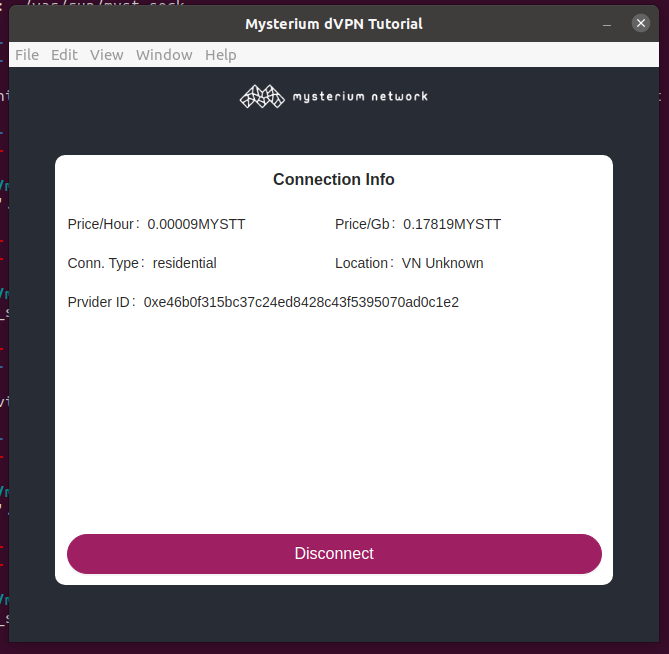
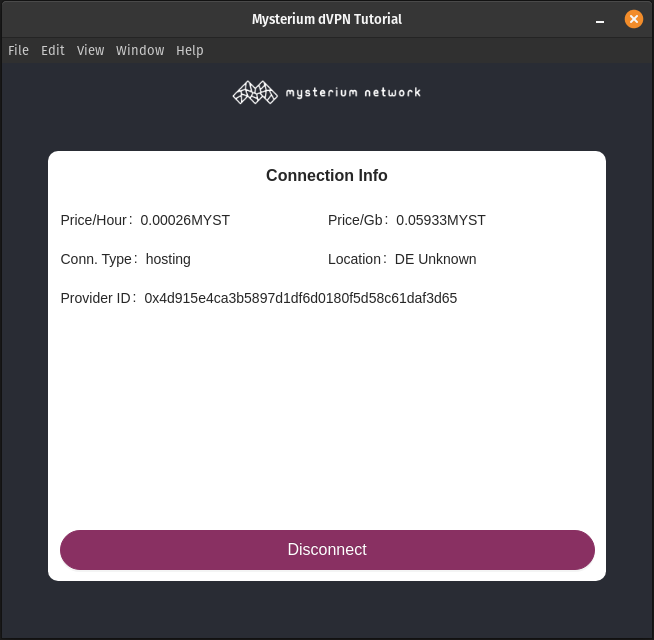
fix docs, code typo and update deps

diff --git a/src/renderer/components/Connection/index.tsx b/src/renderer/components/Connection/index.tsx
@@ -34,7 +34,7 @@ function Connection(params: Params) {
           {connection?.proposal?.location.country}{" "}
           {connection?.proposal?.location.city}
         </Descriptions.Item>
-        <Descriptions.Item label="Prvider ID">
+        <Descriptions.Item label="Provider ID">
           {connection?.proposal?.providerId}
         </Descriptions.Item>
       </Descriptions>

diff --git a/src/renderer/components/Identity/index.tsx b/src/renderer/components/Identity/index.tsx
@@ -45,7 +45,7 @@ function Identity(params: Params) {
             onChange={(e) => setPassword(e.target.value)}
           />
           <Button type="primary" shape="round" size="large" onClick={submit}>
-            Unclock
+            Unlock
           </Button>
     </div>
   );

diff --git a/src/renderer/api/index.ts b/src/renderer/api/index.ts
@@ -51,7 +51,7 @@ export async function getIdentity(
     await tequilapi.identityUnlock(consumerId, password);
   }
 
-  log.info("Got unclocked consumer identity");
+  log.info("Got unlocked consumer identity");
   State.currentIdentity = consumerId;
 }
 

diff --git a/README.md b/README.md
@@ -1,15 +1,11 @@
 ![Mysterium Network dVPN tutorial application](docs/demo.png)
 
-# To run
-1. `git clode https://...`
-2. `yarn install`
-3. `yarn dev` - to see how it looks like 
+# Making client application.
 
-# Mysterium Network dVPN tutorial. Making desktop client application.
+In this tutorial we will show how to build the simplest desktop dVPN application based on the Electron framework and will cover the main parts of the dVPN client, to give you an understanding of how they interact.
 
-Hello friends, in this tutorial we will show how to build a simplest desktop dVPN application based on Electron framework, and will cover main parts of dVPN client, to give you understanding how they interract.
 
-**What we will use:**
+**Dependencies:**
 
 - NodeJs: >=v16.9.1
 - npm: >=7.21.1
@@ -19,43 +15,42 @@ Hello friends, in this tutorial we will show how to build a simplest desktop dVP
 - webpack: == 4.46.0 _// we can't use Webpack 5, because of limitation in electron-webpack_
 - electron-webpack: >= 2.8.2
 - React: >= 17.0.2
-- @mysteriumnetwork/node: > 0.64.0 _// Client Mysterium Node_
+- @mysteriumnetwork/node: >= 1.4.7 _// Client Mysterium Node_
 - mysterium-vpn-js: > 15.1.0 _// Tequila API client_
 - electron-builder: > 22.11.7
 
-## How do client application work
+## Client application workflow
 
-![Client-Spuervisor-Node-WireGuard](docs/scheme.png)
+![Client-Supervisor-Node-WireGuard](docs/scheme.png)
 
-**Every client application consist of these four parts:**
+**Every client application consists of these four parts:**
 
 - **Application** - your client application
 - **Mysterium Node** - client node to interact with Mysterium Network
-- **Supervisor** - service used to move out from Node any services that need escalation of privileges, and also used to controll them. Supervisor used only for client applications.
+- **Supervisor** - a service which allows our application to interact with `node` without the need for privilege escalation. Supervisor used only for client applications.
 - **Wireguard** - VPN tunnel
 
 **Typical application startup:**
 
 1. Start the Node.
-2. Install & Start Supervisor service(if it not installed yet).
+2. Install & Start Supervisor service(if it has not been installed yet).
 3. Setup connection to the Node Tequila API through the localhost.
 4. Setup connection to the Supervisor through the socket.
 5. Do some application logic...
 
-Each Mysterium client Node is running Tequila API on `localhost:44050` which used for communication and controll. To interact  with this API we will use package `mysterium-vpn-js`. You can see docs for API by opening [localhost:44050/docs](http://localhost:44050/docs) in your browser(when Node working) and by visiting [mysterium-vpn-js client](https://github.com/mysteriumnetwork/mysterium-vpn-js/blob/master/src/tequilapi-client.ts)
-
+Each Mysterium client Node is running Tequila API on `localhost:44050` (default is 4050) which is used for communication and control. To interact with this API we will use the package `mysterium-vpn-js`. You can see docs for API by opening [localhost:44050/docs](http://localhost:44050/docs) in your browser(when Node working) and by visiting [mysterium-vpn-js client](https://github.com/mysteriumnetwork/mysterium-vpn-js/blob/master/src/tequilapi-client.ts)
 ## Let's build some simple Electron App
 
 Clone our demo repository to your local machine
 
-1. `git clode https://...`
+1. `git clone git@github.com:mysteriumnetwork/tequilapi-webapp-tutorial.git`
 2. `yarn install`
 3. `yarn dev` - to see how it looks like
 
 ### Structure & main modules
 
-Usually people are building react app with use of `create-react-app` tool which separate Source code from Electron.
-But this aproach has some negative consequences if we want that all our code be written on TypeScript.
+Usually, people build react apps using the `create-react-app` tool which separates Source code from Electron.
+But this approach has some negative consequences if we want that all our code to be written on TypeScript.
 That's why we will be using `webkit` & `electron-webkit` wrapper.
 
 From this point our project structure will look like this:
@@ -99,8 +94,8 @@ We use `postinstall` directive to copy Node binaries to our static folder so we 
 
 ### Setting up Electron
 
-First entry point of our application is `src/electron/main.ts` which will run our Electron.
-To create Electron window we use:
+The first entry point of our application is `src/electron/main.ts` which will run our Electron.
+To create an Electron window we use:
 
 ```js
 const win = new BrowserWindow({
@@ -112,11 +107,11 @@ const win = new BrowserWindow({
   frame: true,
   backgroundColor: "#282c34",
   webPreferences: {
-    webSecurity:false,                 // We need to disable CORS check to be able to connect to Tequila API
-    nodeIntegration: true,             // We can use Node.js in renderer process
+    webSecurity:false,            // We need to disable CORS check to be able to connect to Tequila API
+    nodeIntegration: true,        // We can use Node.js in renderer process
     experimentalFeatures: true,
     nativeWindowOpen: true,
-    contextIsolation: false,           // We can use Electron context in renderer process, so no need for contextBridge
+    contextIsolation: false,      // We can use Electron context in renderer process, so no need for contextBridge
   },
 });
 
@@ -133,7 +128,7 @@ if (isDev) {
 }
 ```
 
-Beside typical stuff we need to setup IPC channels for our Node and Supervisor. And stop Node and disconnect from Supervisor before quit
+Besides typical stuff, we need to setup IPC channels for our Node and Supervisor. And stop Node and disconnect from Supervisor before quit
 
 ```js
   app.on("ready", async () => {
@@ -152,9 +147,9 @@ Beside typical stuff we need to setup IPC channels for our Node and Supervisor. 
 
 ### Mysterium Node & Supervisor
 
-In the `src/electron/node/` we have `mysteriumNode.ts` and `supervisor.ts`. This is our IPC listeners that runs in Electron thread, and which will give our App posibility to run Node and Supervisor. We need this because our renderer process with our app has no access to the system, but electron process has.
+In the `src/electron/node/` we have `mysteriumNode.ts` and `supervisor.ts`. This is our IPC listeners that runs in the Electron thread, and which will give our App the possibility to run Node and Supervisor. We need this because our renderer process with our app has no access to the system, but the electron process has.
 
-We will communiate with them using IPC clients in `src/shared/ipc` folder.
+We will communicate with them using IPC clients in `src/shared/ipc` folder.
 
 In `mysteriumNode.ts` we have 3 IPC methods: start, stop and kill. If you need Import/Export identity methods you can find them [here](https://github.com/mysteriumnetwork/mysterium-vpn-desktop/blob/master/src/main/node/mysteriumNode.ts).
 
@@ -270,7 +265,7 @@ In `mysteriumNode.ts` we have 3 IPC methods: start, stop and kill. If you need I
  export const mysteriumNode = new MysteriumNode()
 ```
 
-In `supervisor.ts` we have 4 IPC methods: istall, upgrade, connect, disconnect. During Supervisor instalation user will need to enter Admin password as it will be run with system privileges.
+In `supervisor.ts` we have 4 IPC methods: install, upgrade, connect, disconnect. During Supervisor installation user will need to enter Admin password as it will be run with system privileges.
 
 ```js
 function mystSockPath(): string {
@@ -371,17 +366,17 @@ function mystSockPath(): string {
 
 ### Main App
 
-Our application is very simple and consists from few views components and api to work with Node Tequila API.
+Our application is very simple and consists of a few views components and API to work with Node Tequila API.
 
-Let's discuss proccess of interaction with Node and creating VPN tunnel with some exit node:
+Let's discuss the process of interaction with Node and creating VPN tunnel with some exit nodes:
 
-1. We need to create identity, which looks something like this `0x142362c0a179da288903f21adcba24686c01e654` and which is basically user id in Mysterium Network
-2. To use identity we need to unlock it(with password) and register in the Registry service of Mysterium Network.
-3. Get list of proposals using some filtration by country, connection type, price, speed, etc. Proposal is basically information about provider(exit node) which you able to connect.
+1. We need to create an identity, which looks something like this `0x142362c0a179da288903f21adcba24686c01e654` and which is basically user id in Mysterium Network
+2. To use identity we need to unlock it(with a password) and register in the Registry service of Mysterium Network.
+3. Get a list of proposals using some filtration by country, connection type, price, speed, etc. The proposal is information about the provider(exit node) to which you are able to connect.
 4. Connect to one of the providers and all traffic will be routed through him.
 5. Disconnect from the provider to stop route traffic through him.
 
-We will not be using any redux, mobx, etc. Instead we will store state in the `api.ts` to make app simpler.
+We will not be using any redux, mobx, etc. Instead, we will store state in the `api.ts` to make the app simpler.
 
 ```js
 let tequilapi = new TequilapiClientFactory(
@@ -426,7 +421,7 @@ export async function getIdentity(
     await tequilapi.identityUnlock(consumerId, password);
   }
 
-  log.info("Got unclocked consumer identity");
+  log.info("Got unlocked consumer identity");
   State.currentIdentity = consumerId;
 }
 
@@ -516,10 +511,9 @@ export async function ConnectRandom(consumerId: string): Promise<any> {
 }
 ```
 
-We use steps here instead of router to just update App view on State update in the api.
-On startup we calling `Startup()` and `Preload()` to start the Node and the Supervisor and preload identities list with current connection status(if we realod the app during work)
+We use steps here instead of a router to just update the App view on State update in the API. On startup, we calling `Startup()` and `Preload()` to start the Node and the Supervisor and preload identities list with current connection status(if we reload the app during work)
 
-After that all prety simple -> User select identity(or create new), unlock it and connect to random Node.
+After that, all pretty simple -> User select identity(or create new), unlock it, and connect to random Node.
 
 ```js
 import {
@@ -595,5 +589,6 @@ function App() {
 export default App;
 ```
 
-## Summarise
-As you can see building dVPN application for Mysterium Network is simple enough. Just few files for Node and Supervisor integration, Tequila API to controll the Node and that's all. 
+## Summary
+
+As you can see building a dVPN application for Mysterium Network is simple enough. Just a few files for Node and Supervisor integration, Tequila API to control the Node and that's all.
